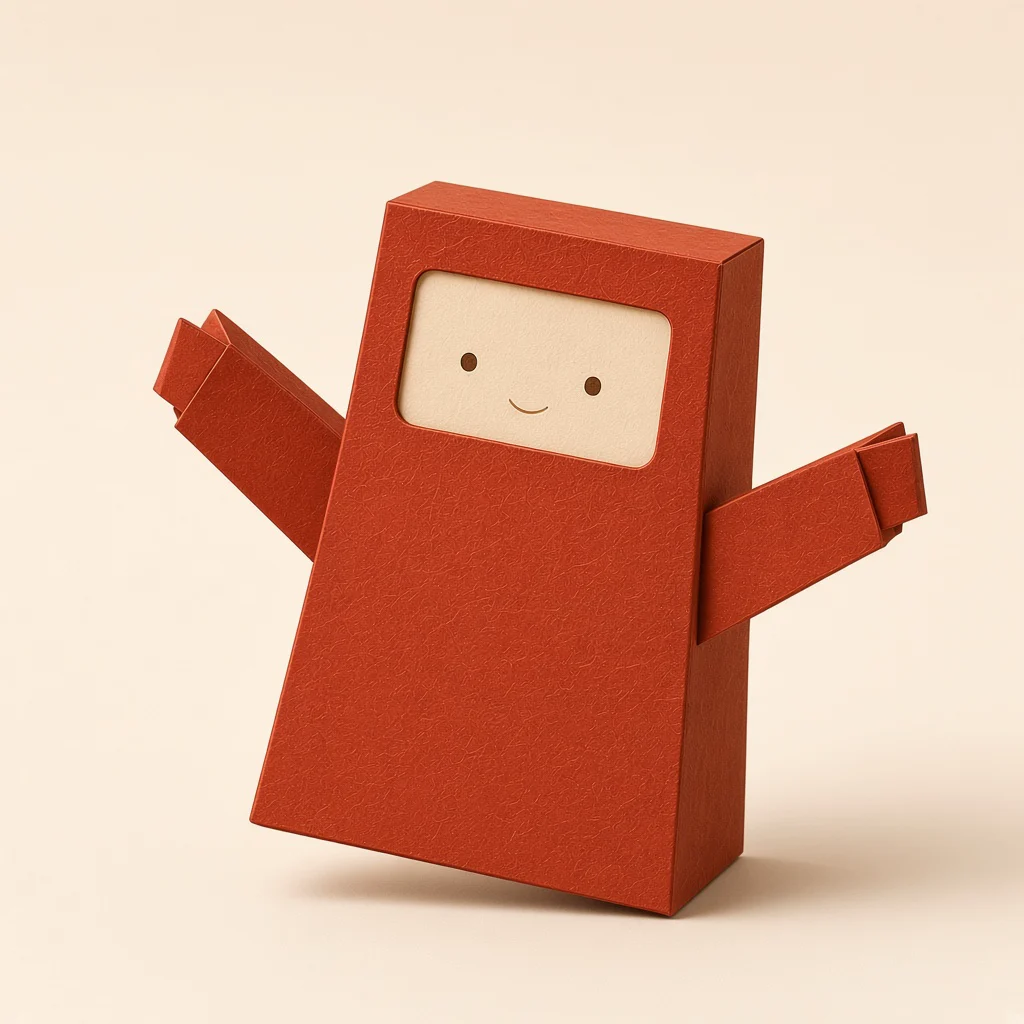
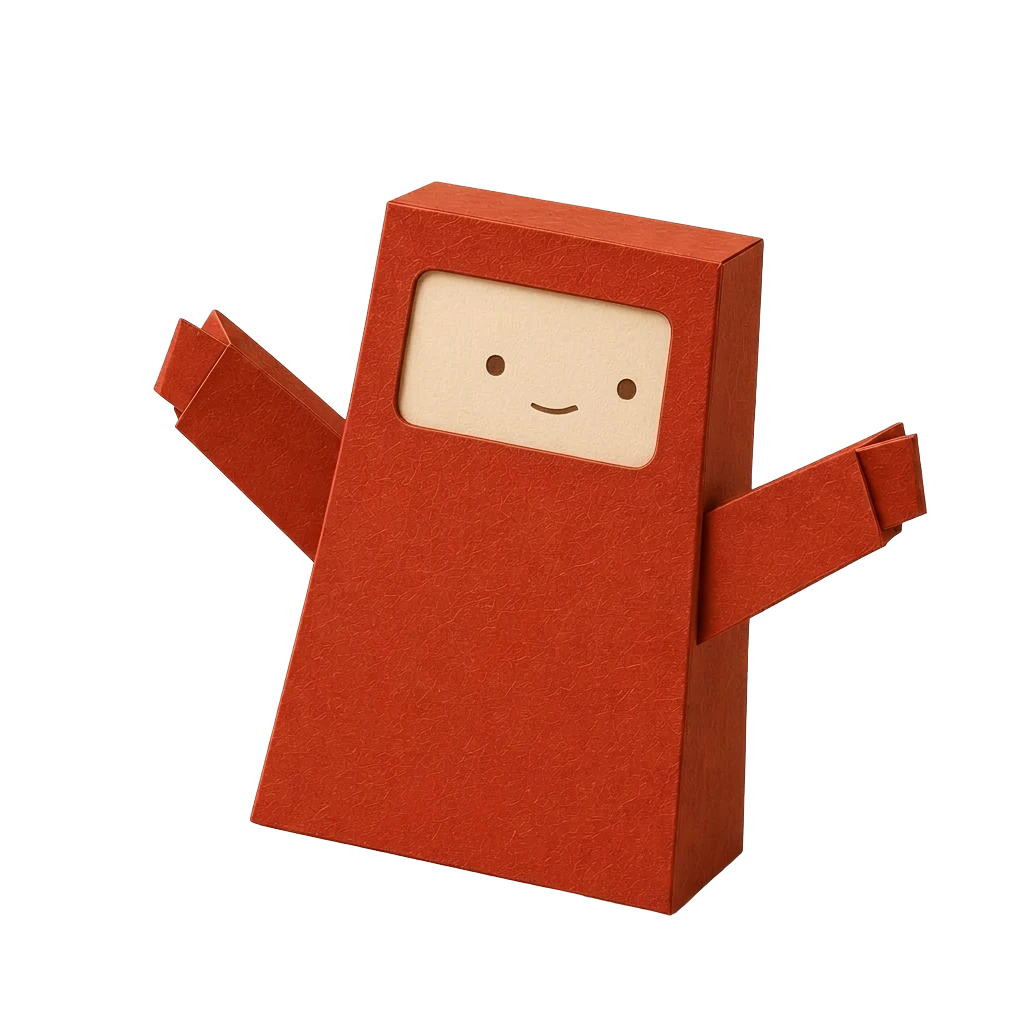
Troca as poses versus pelo recorte alpha do Hermano
Substitui os nove type-N-versus.webp pelos arquivos com fundo transparente, todos inclinados à direita. A arte de frente permanece.

diff --git a/docs/papercraft.md b/docs/papercraft.md
@@ -5,7 +5,7 @@ A família visual segue os conceitos aprovados para o Eneagrama: um personagem p
 ## Uso
 
 - `public/images/characters/type-1.webp` até `type-9.webp`: esculturas individuais de frente. Olhos em branco para overlay HTML.
-- `public/images/characters/type-1-versus.webp` até `type-9-versus.webp`: a mesma família, todos inclinados à direita, 3/4, prontos para um duelo de papel. Olhos já desenhados no arquivo. Fundo de estúdio sólido — **Hermano ainda precisa recortar o alpha**.
+- `public/images/characters/type-1-versus.webp` até `type-9-versus.webp`: a mesma família, todos inclinados à direita, 3/4, prontos para um duelo de papel. Olhos já desenhados no arquivo. WebP com canal alpha (recorte do Hermano).
 - `public/images/characters/stage.webp`: cenário da abertura.
 - `TypeAvatar`: reutiliza a arte de frente na home, galeria, perfil, resultado sem empate e conta. Olhos são camadas HTML, posicionadas em porcentagem do arquivo original.
 - Empate no resultado: `VersusDuel` monta o card em CSS (esquerda na pose original, direita com `scaleX(-1)`). Não usa `TypeAvatar`.
@@ -15,7 +15,7 @@ A família visual segue os conceitos aprovados para o Eneagrama: um personagem p
 
 ## Recorte e otimização
 
-Com autorização do usuário, os fundos quadriculados das esculturas originais (de frente) foram removidos localmente por máscara de cromaticidade, preservando as cores do papel. Os arquivos finais de frente usam WebP com canal alpha. As poses versus (`type-N-versus.webp`) ainda têm fundo de estúdio sólido; o recorte alpha fica para Hermano.
+Com autorização do usuário, os fundos quadriculados das esculturas originais (de frente) foram removidos localmente por máscara de cromaticidade, preservando as cores do papel. Os arquivos finais de frente usam WebP com canal alpha. As poses versus (`type-N-versus.webp`) também usam WebP com canal alpha, recortadas pelo Hermano.
 
 ## Geração
 
